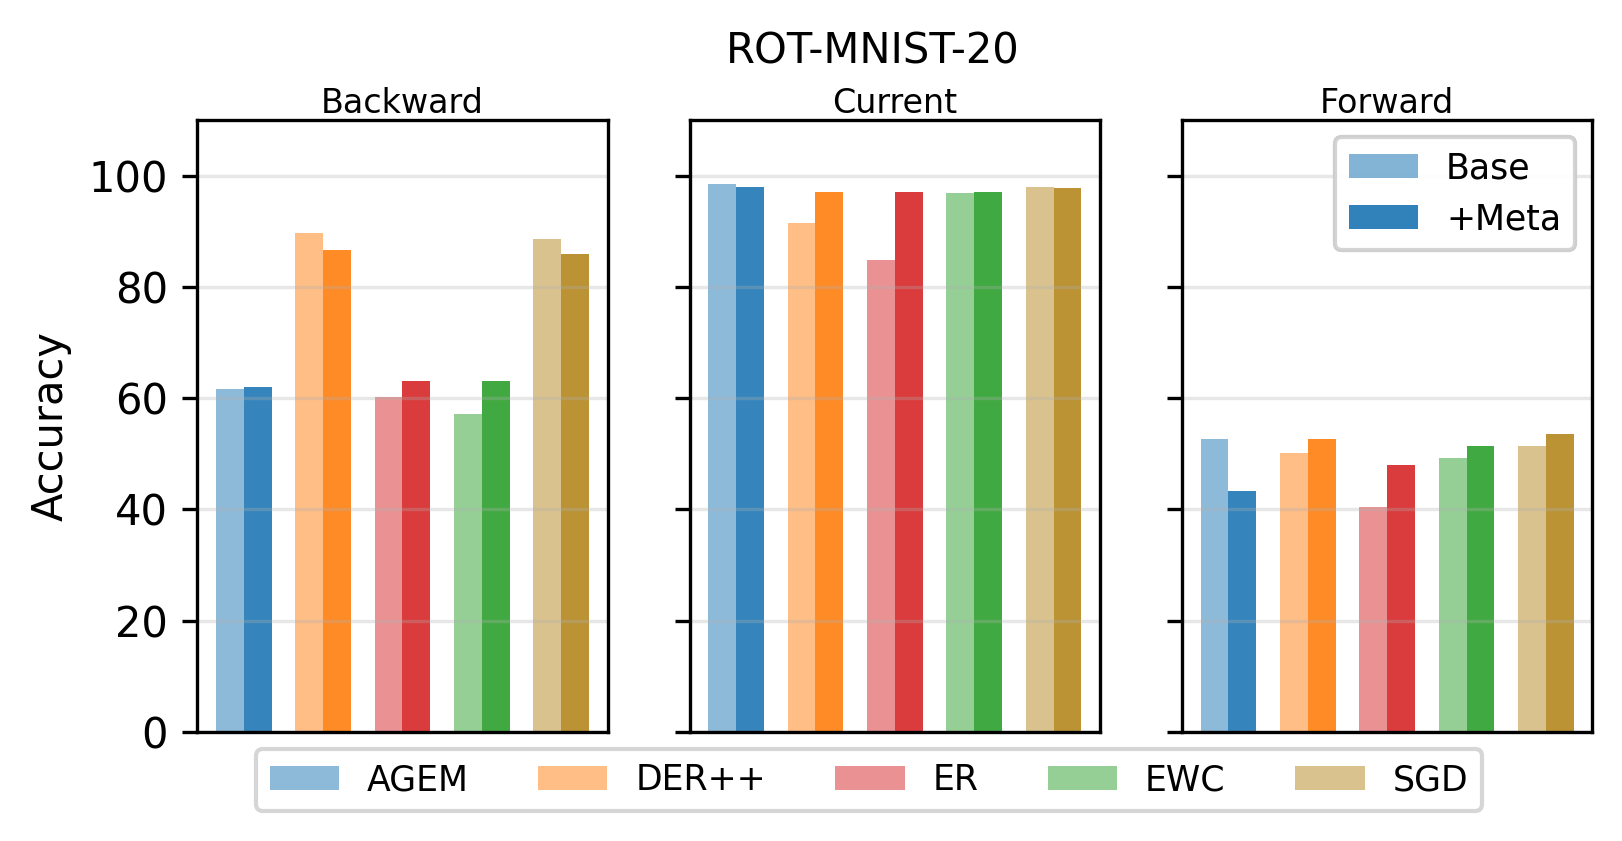
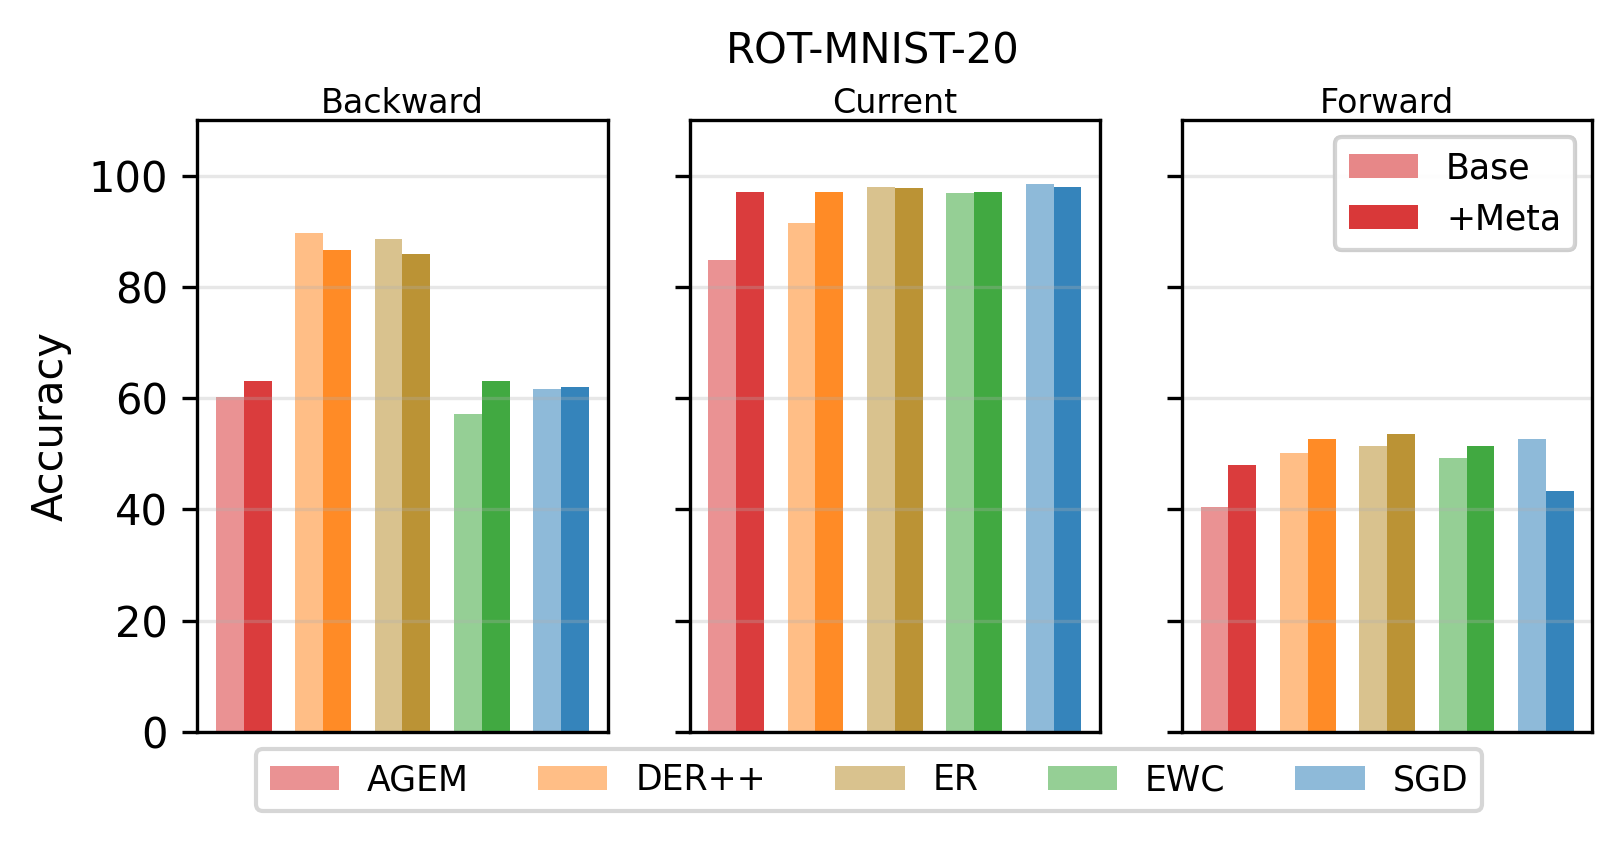
fix meta plotting colors

diff --git a/results_for_paper.py b/results_for_paper.py
@@ -25,6 +25,7 @@ METHOD_COLORS = {
     'sgd_': '#1f77b4',      # blue variant
     'er': "#b4871f",        # gold
     'derpp': '#ff7f0e',     # orange
+    'ewc-on': '#2ca02c',    # green
     'ewc_on': '#2ca02c',    # green
     'ewc': '#2ca02c',       # green variant
     'agem': '#d62728',      # red
@@ -35,16 +36,13 @@ METHOD_COLORS = {
     'icarl': '#bcbd22',     # yellow-green
     'finetune': '#17becf',  # cyan
     # Meta methods
-    'meta_sgd': '#1f77b4',       # blue (same as sgd)
-    'meta_er': "#b4871f",        # gold (same as er)
-    'meta_derpp': '#ff7f0e',    # orange (same as derpp)
-    'meta_ewc': '#2ca02c',      # green (same as ewc)
-    'meta_ewc_on': '#2ca02c',   # green (same as ewc_on)
-    'meta_agem': '#d62728',     # red (same as agem)
-    'meta_mer': '#9467bd',      # purple (same as mer)
-    'meta_maml': '#8c564b',     # brown
-    'meta_reptile': '#e377c2',  # pink
-    'meta_no': '#7f7f7f',       # gray
+    'meta-sgd': '#1f77b4',       # blue (same as sgd)
+    'meta-er': "#b4871f",        # gold (same as er)
+    'meta-derpp': '#ff7f0e',    # orange (same as derpp)
+    'meta-ewc': '#2ca02c',      # green (same as ewc)
+    'meta-ewc_on': '#2ca02c',   # green (same as ewc_on)
+    'meta-agem': '#d62728',     # red (same as agem)
+    'meta-mer': '#9467bd',      # purple (same as mer)
 }
 
 LABEL_MAP = {
@@ -1242,9 +1240,6 @@ def plot_meta_improvement(
         return
 
     print(f"Found {len(method_pairs)} method pairs: {method_pairs}")
-
-    # Use Dark2 colormap (same as plot_plasticity)
-    cmap = plt.cm.Dark2
     
     # Determine columns to plot
     if forward_only:
@@ -1266,7 +1261,6 @@ def plot_meta_improvement(
         
         # Collect data for each method pair
         pair_data = []
-        color_idx = 0
         
         for non_meta, meta in method_pairs.items():
             non_meta_results = model_results.get(non_meta)
@@ -1274,10 +1268,6 @@ def plot_meta_improvement(
             
             if non_meta_results is None or meta_results is None:
                 continue
-            
-            # Get color for this pair
-            color = get_method_color(non_meta)
-            color_idx += 1
             
             # Compute performance for each k-value
             non_meta_values = []
@@ -1324,6 +1314,8 @@ def plot_meta_improvement(
                 non_meta_val = non_meta_values[-1] if non_meta_values else 0
                 meta_val = meta_values[-1] if meta_values else 0
             
+            # Get color for this pair
+            color = get_method_color(non_meta.split('_')[0])
             pair_data.append({
                 'non_meta': non_meta,
                 'meta': meta,
@@ -1341,17 +1333,18 @@ def plot_meta_improvement(
         x_positions = np.arange(n_pairs)
         bar_width = 0.35
         
+        pair_data = sorted(pair_data, key=lambda x: x['non_meta'])  # Sort by method base name for consistent coloring
+        colors = [p['color'] for p in pair_data]
+
         # Non-meta bars (lower opacity)
         non_meta_vals = [p['non_meta_val'] for p in pair_data]
-        colors_non_meta = [p['color'] for p in pair_data]
         bars_non_meta = ax.bar(x_positions - bar_width/2, non_meta_vals, bar_width, 
-                               label='Base', color=colors_non_meta, alpha=0.5)
+                               label='Base', color=colors, alpha=0.5)
         
         # Meta bars (full opacity)
         meta_vals = [p['meta_val'] for p in pair_data]
-        colors_meta = [p['color'] for p in pair_data]
         bars_meta = ax.bar(x_positions + bar_width/2, meta_vals, bar_width, 
-                          label='+Meta', color=colors_meta, alpha=0.9)
+                          label='+Meta', color=colors, alpha=0.9)
         
         # Add legend
         if direction == 'backward':
